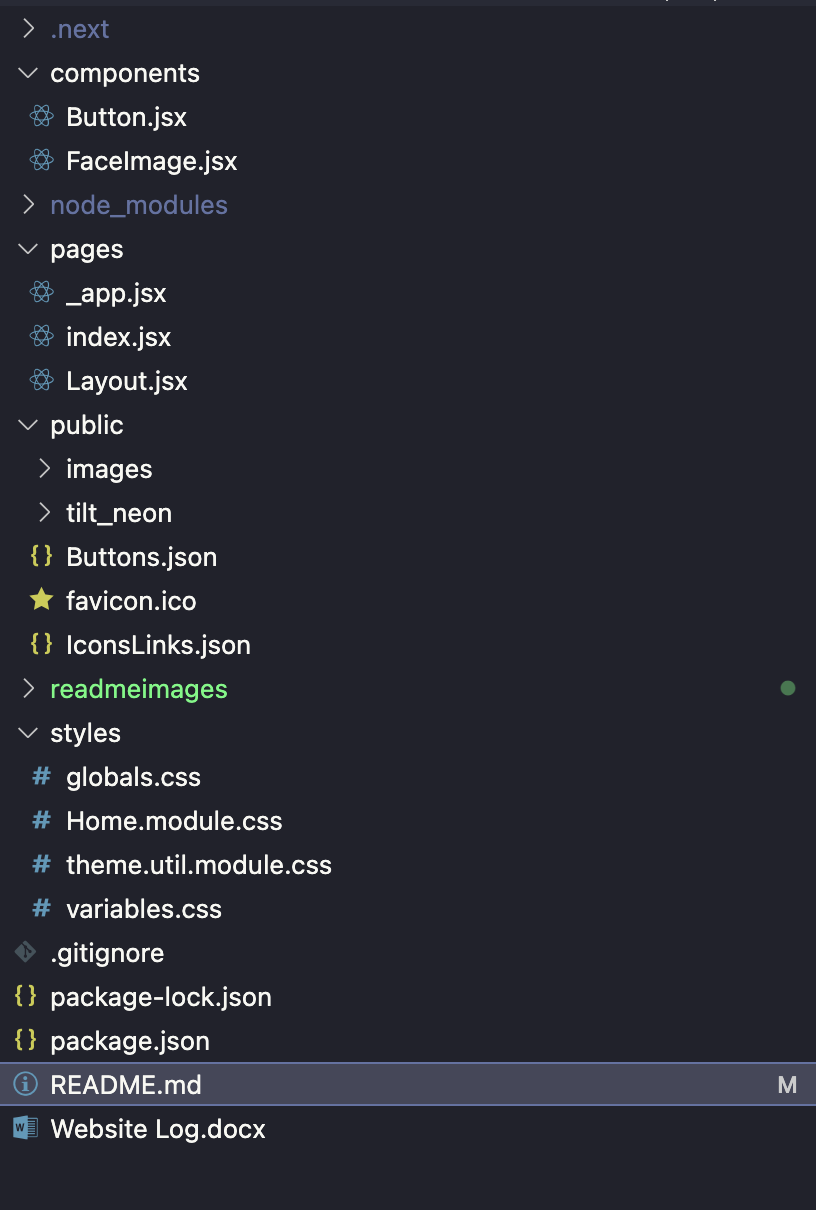
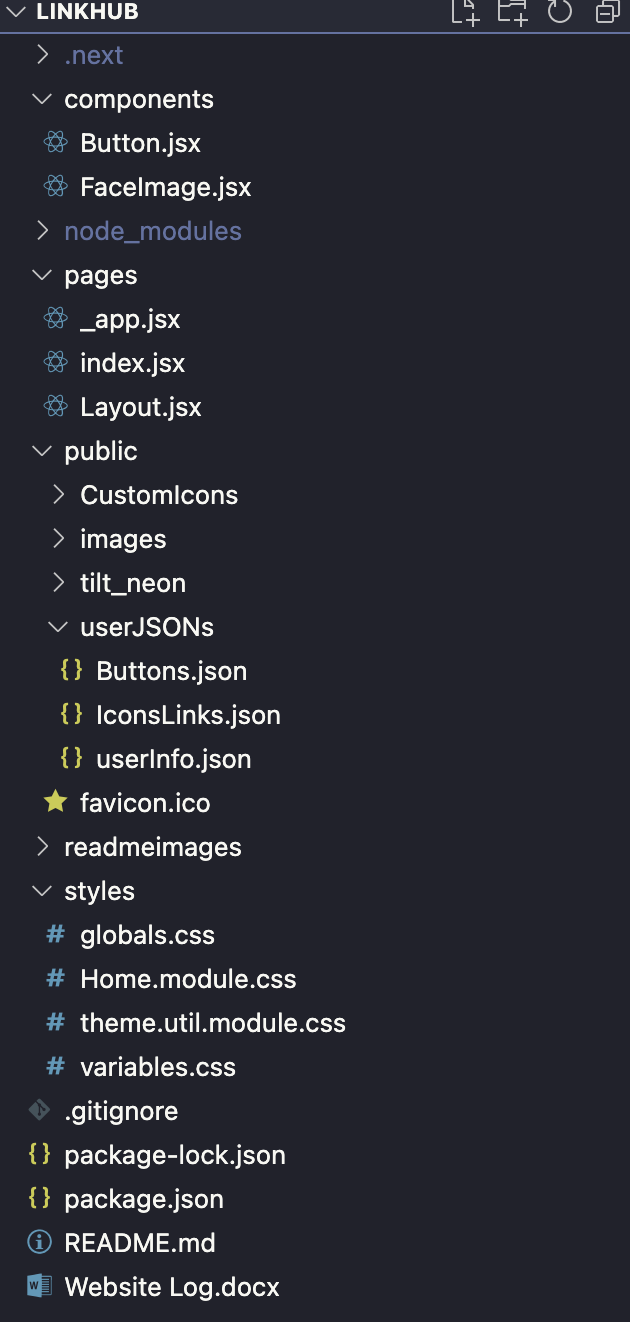
updated global variables by changing names and allowing for easier changes

diff --git a/styles/Home.module.css b/styles/Home.module.css
@@ -1,5 +1,5 @@
 .background {
-  background-color: var(--primary-bright);
+  background-color: var(--background);
   background-size: cover;
   width: 100vw;
   height: 100vh;
@@ -10,7 +10,7 @@
   align-items: center;
   min-height: 5vh;
   max-width: 100vw;
-  padding-top: 3rem;
+  padding-top: 5rem;
   margin-left: 1rem;
   margin-right: 1rem;
   display: flex;
@@ -23,6 +23,8 @@
   animation: fadeInAnimation ease 2s;
   animation-iteration-count: 1;
   animation-fill-mode: forwards;
+  font-size: 1rem;
+  color: var(--copyright-text);
 }
 
 @keyframes fadeInAnimation {
@@ -120,7 +122,7 @@
   background: transparent;
   border-style: solid;
   border-radius: 45px;
-  border-color: var(--primary);
+  border-color: var(--main-text);
   border-width: 0.5rem;
   position: relative;
 }
@@ -157,7 +159,7 @@
     background: transparent;
     border-style: solid;
     border-radius: 45px;
-    border-color: var(--primary);
+    border-color: var(--main-text);
     border-width: 0.5rem;
   }
 }
@@ -173,7 +175,7 @@
     background: transparent;
     border-style: solid;
     border-radius: 45px;
-    border-color: var(--primary);
+    border-color: var(--main-text);
     border-width: 0.5rem;
   }
 }

diff --git a/styles/theme.util.module.css b/styles/theme.util.module.css
@@ -5,7 +5,7 @@
   font-weight: 800;
   letter-spacing: -0.05rem;
   margin: 1rem 0;
-  color: var(--primary-dark);
+  color: var(--title-text);
 }
 
 .headingXl {
@@ -27,8 +27,16 @@
 .headingMd {
   text-align: center;
   font-size: 1.2rem;
-  color: var(--primary);
-  font-family: "tilt-neon";
+  color: var(--main-text);
+  font-family: var(--font-family);
+  text-align: center;
+}
+
+.copyright {
+  text-align: center;
+  font-size: 1.2rem;
+  color: var(--copyright-text);
+  font-family: var(--font-family);
 }
 
 .mainFace {
@@ -62,7 +70,6 @@
   height: 2.5rem;
   min-width: 2.5rem;
   min-height: 2.5rem;
-  fill: var(--primary) !important;
   position: absolute;
   top: 50%;
   -ms-transform: translateY(-50%);
@@ -71,11 +78,11 @@
   -webkit-mask-repeat: no-repeat;
   mask-repeat: no-repeat;
   mask-position: center;
-  background-color: var(--primary);
+  background-color: var(--main-text) !important;
 }
 
 .icon {
-  background-color: var(--primary);
+  background-color: var(--main-text);
 }
 
 .imageRendering {

diff --git a/styles/globals.css b/styles/globals.css
@@ -2,8 +2,7 @@ html,
 body {
   padding: 0;
   margin: 0;
-  font-family: "tilt-neon";
-  color: var(--primary-dark);
+  font-family: var(--font-family);
 }
 * {
   box-sizing: border-box;
@@ -16,7 +15,6 @@ main {
   flex-direction: column;
   justify-content: center;
   align-items: center;
-  font-family: "tilt-neon";
 }
 footer {
   width: 100%;
@@ -25,7 +23,6 @@ footer {
   display: flex;
   justify-content: center;
   align-items: center;
-  font-family: "tilt-neon";
 }
 footer img {
   margin-left: 0.5rem;
@@ -38,18 +35,11 @@ footer a {
   color: inherit;
 }
 code {
-  color: var(--primary);
+  color: var(--background);
   background: var(--primary-dark);
   border-radius: 5px;
   padding: 0.75rem;
   font-size: 1.1rem;
-  font-family: "tilt-neon";
-}
-
-@font-face {
-  font-family: "tilt-neon";
-  src: local("tilt_neon"),
-    url("../public/tilt_neon/static/TiltNeon-Regular.ttf") format("truetype");
 }
 
 a:link {

diff --git a/styles/variables.css b/styles/variables.css
@@ -1,8 +1,15 @@
 :root {
-  --primary-bright: #f7f3e3;
-  --primary: #af9164;
-  --primary-dim: #b3b6b7;
-  --primary-dark: #2b2118;
-  --secondary: #6f1a07;
+  --background: #f7f3e3;
+  --main-text: #af9164;
+  --title-text: #433218;
+  --copyright-text: #8b5e1b;
+  --font-family: "font";
   transition: all 0.2s;
+}
+
+@font-face {
+  font-family: "font";
+  src:
+    local("tilt_neon"),
+    url("../public/tilt_neon/static/TiltNeon-Regular.ttf") format("truetype");
 }

diff --git a/pages/Layout.jsx b/pages/Layout.jsx
@@ -8,9 +8,7 @@ export default function Layout({ home, children }) {
     <div className={styles.background}>
       <main>{children}</main>
       <section className={styles.container}>
-        <div className={styles.headingMd}>
-          Copyrights © {new Date().getFullYear()} {userInfoJSON["name"]}
-        </div>
+        Copyrights © {new Date().getFullYear()} {userInfoJSON["name"]}
       </section>
     </div>
   );

diff --git a/README.md b/README.md
@@ -8,23 +8,31 @@
 
 This is a project is a pocket sized version of LinkTree. It allows for users to easily create their own link consolidation hub for social media such as Instagram, X (Formerly Twitter), and Facebook to list a few.
 
+This application assumes that all the buttons and the button icons have the same colour.
+
 ## How to Use
 
 Currently, this project is being used to host my own links, which include my two art Instagram accounts and my Twitch account. However, this project can be easily modified to fit your uses.
 
 ### Folder Layout
 
-![alt text](./readmeimages/image-1.png)
+![Folder Layout Photo](./readmeimages/image-1.png)
 
 The only files that basic user modification is needed are the following:
 
-- "Buttons.json": A file that contains all the buttons that the user wants on their LinkHub
+- "Buttons.json": A file that contains all the buttons that the user wants on their LinkHub.
 
-- "IconsLinks.json": A file to icons that are used from the FontAwesome Library (free version)
+- "IconsLinks.json": A file that connects logo names to either the link to the FontAwesome logo or the icon in the CustomIcons folder.
 
 - "userInfo.json": A file to the user's information.
 
-- "CustomIcons": A folder to put all custom SVG icons that are not present in the FontAwesome Library
+- "CustomIcons": A folder to put all custom SVG icons that are not present in the FontAwesome Library.
+
+- "variables.css": The css file for all the colours and font used in the document.
+
+### General Setup
+
+### variables.css
 
 ## FAQ
 
